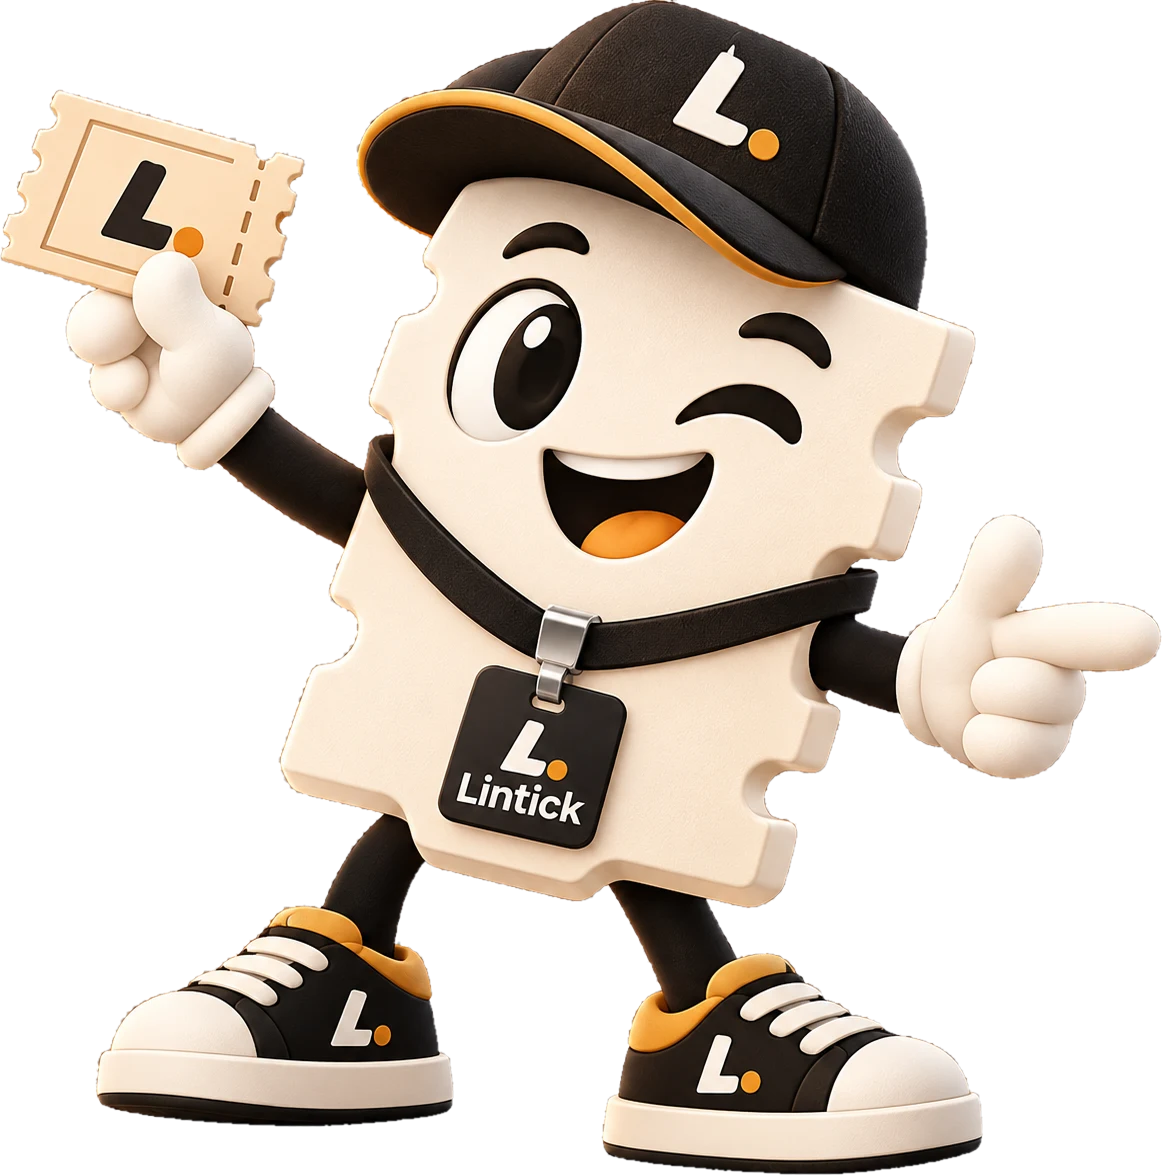
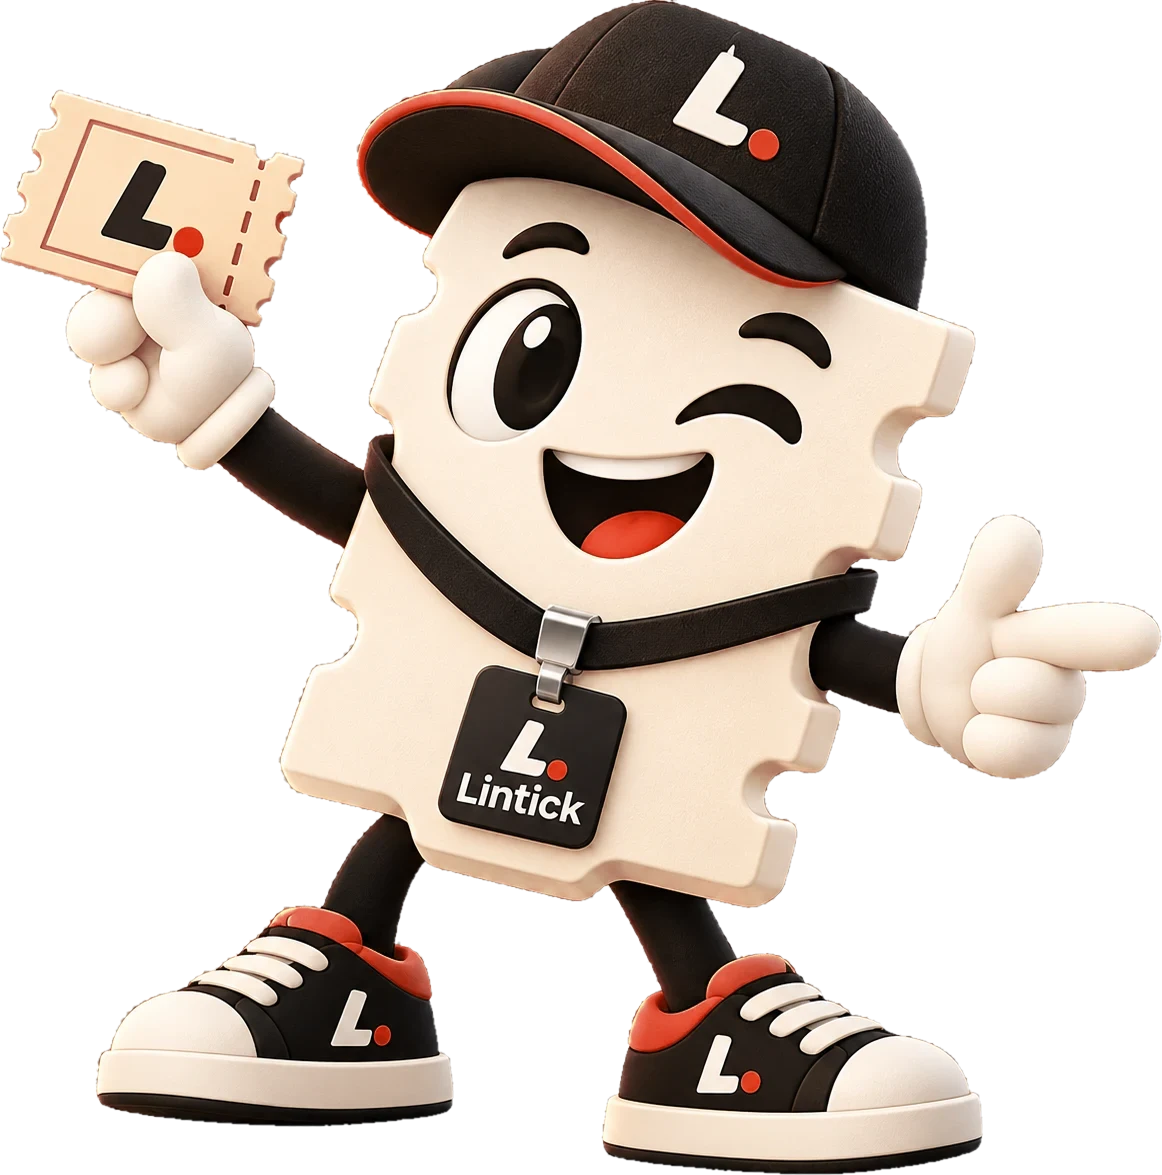
Mascota con detalles en el naranja de Lintick; tarjetas de evento con borde naranja y efecto vidrio

diff --git a/apps/web/app/globals.css b/apps/web/app/globals.css
@@ -525,3 +525,66 @@
 @media (prefers-reduced-motion: reduce) {
   .logo:hover .logo-face { transform: none; }
 }
+
+/*
+ * Tarjetas de evento "vidrio dorado": borde degradé oro → naranja, cuerpo translúcido con desenfoque
+ * y un brillo que cruza la tarjeta al pasar el mouse.
+ */
+.card-glass {
+  --gold-1: #f2a25c;
+  --gold-2: #d23a1f;
+  --gold-3: #f7c27e;
+  position: relative;
+  border: 1.5px solid transparent;
+  background:
+    linear-gradient(180deg, rgb(255 253 249 / 0.9), rgb(255 249 242 / 0.82)) padding-box,
+    linear-gradient(135deg, var(--gold-1), var(--gold-2) 45%, var(--gold-3) 70%, var(--gold-2)) border-box;
+  backdrop-filter: blur(14px) saturate(1.3);
+  -webkit-backdrop-filter: blur(14px) saturate(1.3);
+  box-shadow:
+    inset 0 1px 0 rgb(255 255 255 / 0.7),
+    0 1px 0 rgb(23 20 17 / 0.04),
+    0 18px 40px -24px rgb(210 58 31 / 0.55);
+  transition:
+    translate 300ms var(--ease-out-quint),
+    transform 300ms var(--ease-out-quint),
+    box-shadow 300ms var(--ease-out-quint);
+}
+.group:hover .card-glass,
+.group:focus-visible .card-glass {
+  box-shadow:
+    inset 0 1px 0 rgb(255 255 255 / 0.8),
+    0 0 0 1px rgb(242 162 92 / 0.35),
+    0 26px 50px -22px rgb(210 58 31 / 0.7);
+}
+/* Brillo diagonal tipo vidrio, sobre la imagen. */
+.card-glass .glass-sheen {
+  pointer-events: none;
+  position: absolute;
+  inset: 0;
+  border-radius: inherit;
+  background: linear-gradient(115deg, transparent 30%, rgb(255 255 255 / 0.28) 45%, rgb(255 255 255 / 0.06) 52%, transparent 60%);
+  background-size: 250% 100%;
+  background-position: 120% 0;
+  transition: background-position 900ms var(--ease-out-quint);
+}
+.group:hover .card-glass .glass-sheen {
+  background-position: -40% 0;
+}
+/* Las muescas del corte siguen el borde dorado (sólo la mitad que cae dentro de la tarjeta). */
+.card-glass .cut::before,
+.card-glass .cut::after {
+  box-shadow: inset 0 0 0 1.5px var(--gold-2);
+}
+.card-glass .cut::before {
+  clip-path: inset(0 0 0 50%);
+}
+.card-glass .cut::after {
+  clip-path: inset(0 50% 0 0);
+}
+.card-glass .cut > span {
+  background-image: radial-gradient(circle, rgb(210 58 31 / 0.55) 1.2px, transparent 1.6px);
+}
+@media (prefers-reduced-motion: reduce) {
+  .card-glass .glass-sheen { transition: none; }
+}

diff --git a/apps/web/components/event-card.tsx b/apps/web/components/event-card.tsx
@@ -55,9 +55,10 @@ export function EventCard({ event }: { event: PublicEvent }) {
       className="group block rounded-[var(--radius-ticket)] focus-visible:outline-offset-4"
       aria-label={`${event.title}, ${d.long} ${d.time} h${event.venue ? `, ${event.venue.name}` : ''}`}
     >
-      <article className="rounded-[var(--radius-ticket)] bg-surface transition-transform duration-300 ease-[var(--ease-out-quint)] group-hover:-translate-y-1">
-        <div className="aspect-[4/3.4] overflow-hidden rounded-t-[var(--radius-ticket)]">
+      <article className="card-glass rounded-[var(--radius-ticket)] group-hover:-translate-y-1">
+        <div className="relative aspect-[4/3.4] overflow-hidden rounded-t-[calc(var(--radius-ticket)-1.5px)]">
           <EventPoster event={event} />
+          <span className="glass-sheen" aria-hidden />
         </div>
         <div className="cut -mt-[11px]" aria-hidden><span className="opacity-0" /></div>
         <div className="space-y-1.5 px-5 pb-5 pt-1">
